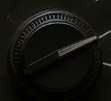
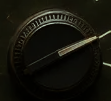
feat(ritm12): keep the machine bright enough to work on with the desk lamp out

diff --git a/packages/machine-ritm12/src/styles.css b/packages/machine-ritm12/src/styles.css
@@ -288,7 +288,7 @@
 
 .rt-frame[data-lamp='out'] .rt-knob img,
 .rt-frame[data-lamp='out'] .rt-labels {
-  filter: brightness(0.62) saturate(0.8);
+  filter: brightness(0.82) saturate(0.85);
 }
 
 @media (prefers-reduced-motion: reduce) {

diff --git a/packages/machine-ritm12/art/cut-night.py b/packages/machine-ritm12/art/cut-night.py
@@ -23,19 +23,19 @@ night = here / 'night'
 (night / 'patch').mkdir(parents=True, exist_ok=True)
 
 # The machine keeps most of its own colour; the room behind it goes to the blue of a dark room.
-MACHINE = {'light': np.array([0.50, 0.58, 0.66]), 'colour_kept': 0.8}
-ROOM = {'light': np.array([0.38, 0.54, 0.88]), 'colour_kept': 0.3}
+MACHINE = {'light': np.array([0.74, 0.86, 0.84]), 'colour_kept': 0.85, 'depth': 1.32}
+ROOM = {'light': np.array([0.55, 0.78, 1.15]), 'colour_kept': 0.3, 'depth': 0.9}
 # The machine's case on the plate. Every patch lies well inside it.
 CASE = (70, 150, 1950, 1235)
 # The lamp and the light it throws on the wall behind it: the middle of that glow, and how far it reaches.
 LAMP_GLOW = {'centre': (150, 70), 'reach': (400, 250)}
-LAMP_DARK = 0.2
+LAMP_DARK = 0.3
 
 
-def graded(pixels, light, colour_kept):
-    """A picture's colours without the lamp. Each pixel alone decides its colour, so a patch matches the plate."""
+def graded(pixels, light, colour_kept, depth):
+    """A picture's colours without the lamp. Each pixel alone decides its colour, so a patch matches the plate. `depth` deepens the shadows and leaves the brightest paint where it was."""
     grey = (pixels @ [0.299, 0.587, 0.114])[..., None]
-    return (grey * (1 - colour_kept) + pixels * colour_kept) ** 1.12 * light
+    return (grey * (1 - colour_kept) + pixels * colour_kept) ** depth * light
 
 
 def in_room(pixels):
